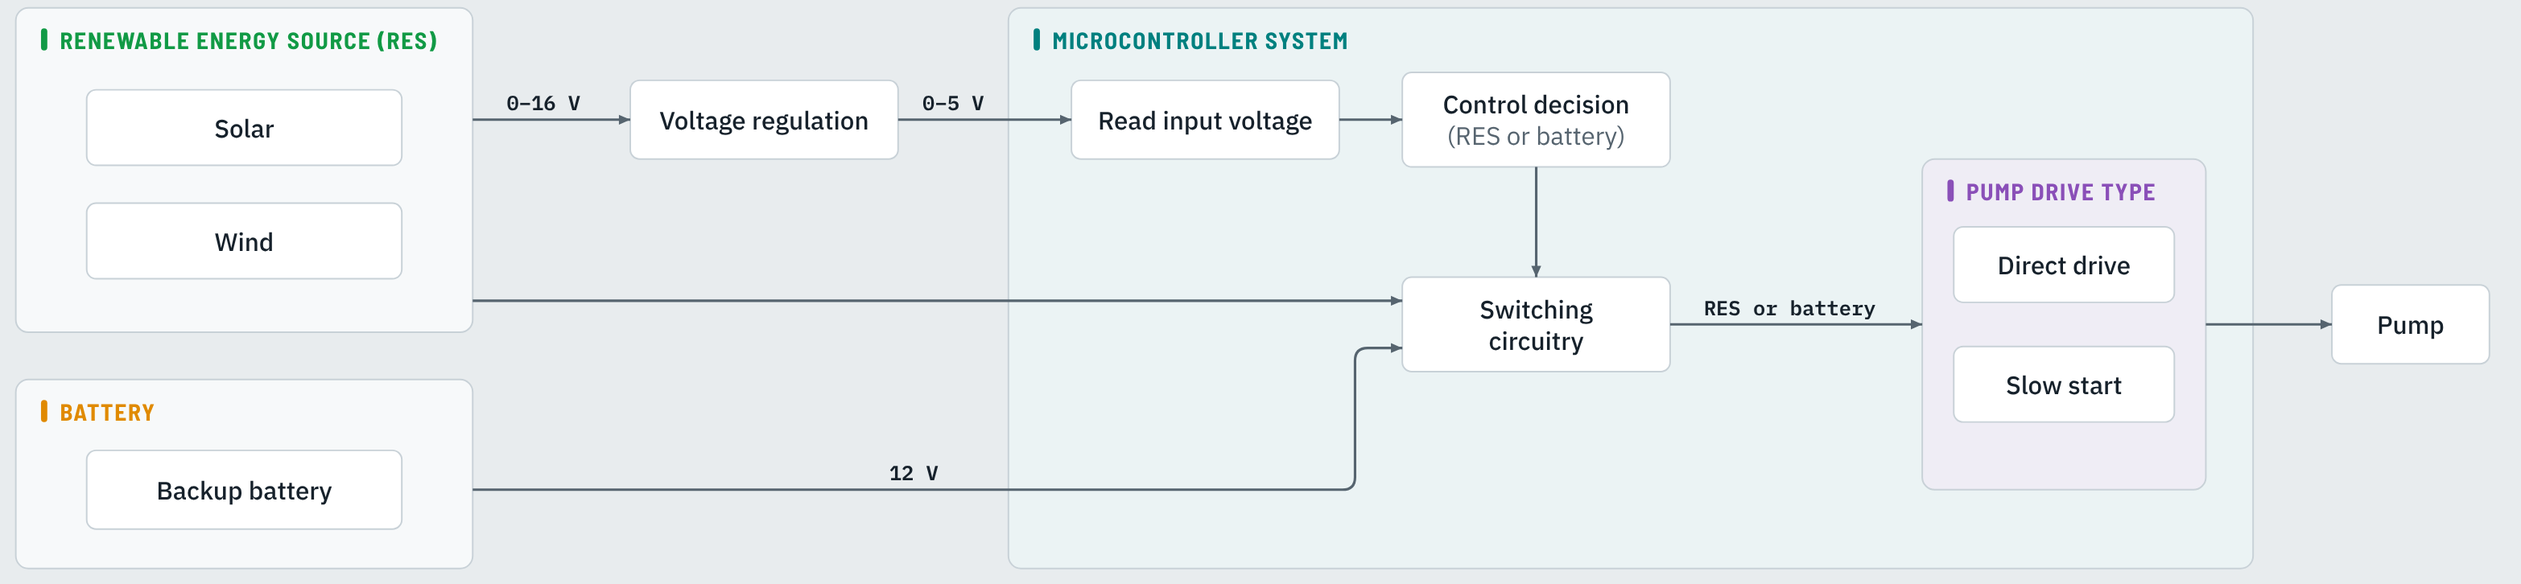
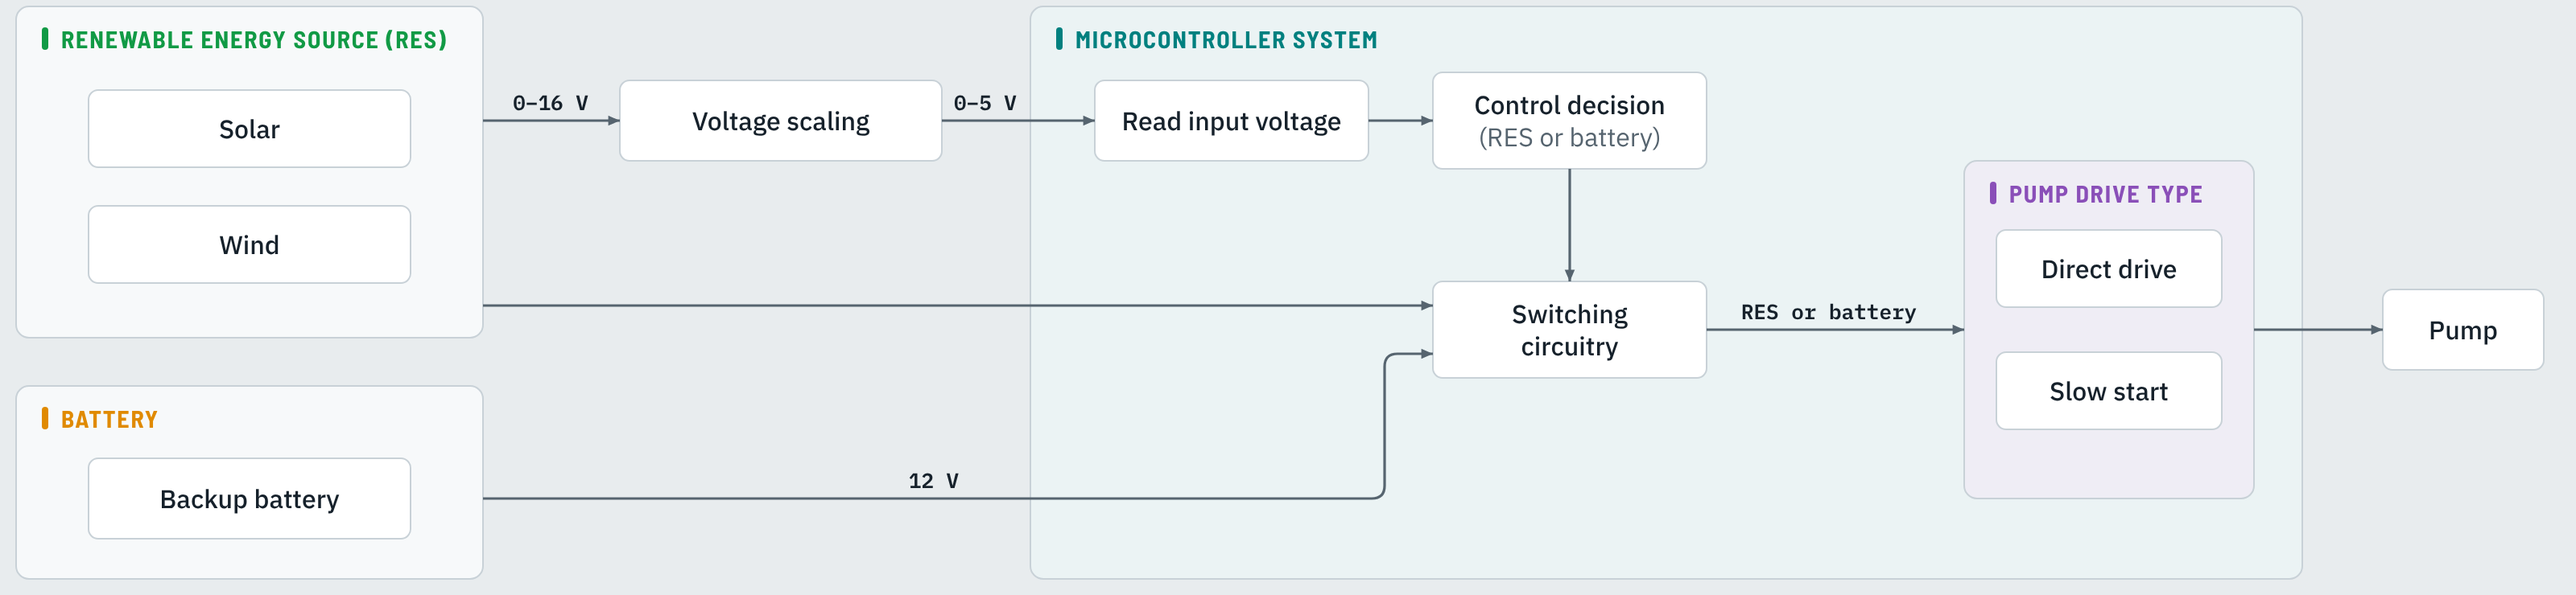
Rename chapter 1 to Voltage measurement; Voltage scaling on the diagram
Chapter 1 opens with the project diagram, the RES and voltage scaling
blocks highlighted. The diagram's block is now Voltage scaling and the
chapter is Voltage measurement, in the sidebar, links and checks.

Claude-Session: https://claude.ai/code/session_01P87DN4FTkCasZDitRqwUir

diff --git a/mec1019/chapters/01-voltage-regulation.md b/mec1019/chapters/01-voltage-regulation.md
@@ -1,11 +1,19 @@
-# Voltage regulation
+# Voltage measurement
 
 The first block after the renewable energy source (RES) in the
-[project overview](../project-overview.qmd) is **voltage regulation**. Its job
+[project overview](../project-overview.qmd) is **voltage scaling**. Its job
 is to bring the RES voltage, which can be anywhere from 0 V to about 16 V, into
 the 0–5 V range that an Arduino analogue input can safely measure. This chapter
 explains why that matters, how a **voltage divider** does it, and how to set
 up an adjustable divider safely.
+
+```{=html}
+<figure class="flow-diagram">
+<figcaption>System overview · Voltage scaling</figcaption>
+<a class="fd-light" href="images/system-voltage-scaling-light.png"><img src="images/system-voltage-scaling-light.png" width="1600" height="370" alt="Project overview diagram with the renewable energy source (solar and wind, 0–16 V) and the voltage scaling block highlighted; the microcontroller, battery, switching circuitry and pump drive are faded."></a>
+<a class="fd-dark" href="images/system-voltage-scaling-dark.png"><img src="images/system-voltage-scaling-dark.png" width="1600" height="370" alt="Project overview diagram with the renewable energy source (solar and wind, 0–16 V) and the voltage scaling block highlighted; the microcontroller, battery, switching circuitry and pump drive are faded."></a>
+</figure>
+```
 
 ## Learning outcomes
 
@@ -43,8 +51,8 @@ Arduino can still tell a weak source from a strong one.
 
 ### Measuring is not the same as powering
 
-"Voltage regulation" can mean two different things, and the project needs to
-keep them apart:
+This block **measures** the RES voltage; it doesn't **regulate** it. The two are
+easily confused, and the project needs to keep them apart:
 
 | | Scaling for **measurement** | Regulating for **power** |
 |---|---|---|
@@ -58,8 +66,8 @@ RES does, so the Arduino would learn nothing. A divider is no use for powering
 anything: as soon as a load draws current from it, its output collapses. The
 Arduino Uno has its own **5 V linear regulator** for its supply (7–12 V on the
 barrel jack or Vin); above about 12 V that regulator wastes
-$P = (V_{in} - 5)\,I$ as heat. The **voltage regulation** block in the project
-is a measurement divider.
+$P = (V_{in} - 5)\,I$ as heat. The **voltage scaling** block in the project
+is a divider, not a regulator.
 
 ### Using the whole range
 
@@ -304,7 +312,7 @@ reading back into the RES voltage, using the fraction you measure here.
 - Arduino analogue inputs must stay within **0–5 V**. A higher source voltage must
   be scaled down, in proportion, before it reaches a pin.
 - A **divider** scales a voltage for measurement; a **regulator** holds a supply
-  steady for power. The project's voltage regulation block is a divider.
+  steady for power. The project's voltage scaling block is a divider.
 - $V_{out} = V_s R_2/(R_1+R_2)$. The ratio sets the voltage; the total resistance
   sets the current and the power wasted.
 - Design from the **maximum** source voltage: $R_1 = (V_{max}/5 - 1)\,R_2$, with

diff --git a/mec1019/chapters/06-project-board.md b/mec1019/chapters/06-project-board.md
@@ -13,7 +13,7 @@ By the end of this chapter you should be able to:
 
 - Read the RenewableSwitchOver schematic and find each block of the project
   diagram on it
-- Set the board's voltage regulation trimmer safely and measure its divider
+- Set the board's voltage measurement trimmer safely and measure its divider
   fraction
 - Explain how the board's high-side P-MOSFET switches, NPN level shifters and
   diodes select the supply, and compare them with relays
@@ -47,7 +47,7 @@ A few things help when reading it:
 |---|---|---|---|
 | Renewable energy source (RES) | [Project overview](../project-overview.qmd) | RES wired to the breadboard rails | Screw terminal **J3** (Renew): +ve is the net **Vdrive** |
 | Battery | [Project overview](../project-overview.qmd) | Battery wired to the breadboard rails | Screw terminal **J2** (Batt): +ve is **+12V** |
-| Voltage regulation | [1 · Voltage regulation](01-voltage-regulation.md) | Fixed divider, e.g. 22 kΩ + 10 kΩ | **R7** (10 kΩ) and the **SwitchOverADJ** trimmer; test point **TP1** |
+| Voltage scaling | [1 · Voltage measurement](01-voltage-regulation.md) | Fixed divider, e.g. 22 kΩ + 10 kΩ | **R7** (10 kΩ) and the **SwitchOverADJ** trimmer; test point **TP1** |
 | Microcontroller system | [2 · Getting started with the Arduino](02-arduino.md) | Arduino Uno | Arduino Uno **A1**, plugged into the board |
 | Read input voltage, control decision | [3 · Read input voltage](03-read-input-voltage.md) | Divider mid-point to A0 | Trimmer wiper (net **AnalogIn**) to **A0** |
 | Switching circuitry | [4 · Switching circuitry](04-switching-circuitry.md) | Dual relay module, active-LOW | P-MOSFETs **Q3**, **Q4** driven by NPN transistors **Q1**, **Q2**, active-HIGH; diodes **D1**, **D2**; LEDs **D3**, **D4** |
@@ -73,10 +73,10 @@ enable pin.
 
 ---
 
-## 3. Voltage regulation on the board
+## 3. Voltage measurement on the board
 
 The board's divider is the fixed-resistor-plus-trimmer arrangement from
-[Voltage regulation](01-voltage-regulation.md#setting-an-adjustable-divider-safely):
+[Voltage measurement](01-voltage-regulation.md#setting-an-adjustable-divider-safely):
 
 | Part | Connection |
 |---|---|
@@ -412,7 +412,7 @@ bypassed, and only the supply switching matters.
 
 - The board is the same system as Chapters 1–5: every block of the project diagram
   has a matching group of parts on the schematic.
-- **Voltage regulation:** R7 and the SwitchOverADJ trimmer feed A0. Set it at TP1 so
+- **Voltage measurement:** R7 and the SwitchOverADJ trimmer feed A0. Set it at TP1 so
   the RES maximum gives just under 5 V, and measure the fraction there.
 - **Switching:** each supply has a **high-side P-MOSFET** (Q3, Q4) driven through an
   **NPN level shifter** (Q1, Q2): D12 HIGH connects the battery, D13 HIGH connects

diff --git a/mec1019/chapters/03-read-input-voltage.md b/mec1019/chapters/03-read-input-voltage.md
@@ -48,7 +48,7 @@ the whole range of 1024 steps is used.
 
 A **potentiometer** across 5 V gives a voltage from 0 to 5 V that you can change
 by hand: a safe stand-in for the RES while you write and test the code. (See
-[Voltage regulation](01-voltage-regulation.md#potentiometers-an-adjustable-divider)
+[Voltage measurement](01-voltage-regulation.md#potentiometers-an-adjustable-divider)
 for how it works.)
 
 ![Turning a breadboard potentiometer](images/p6-04.png)
@@ -385,7 +385,7 @@ voltage is always measured *relative to* something: without a shared ground,
 ### Measure the fraction
 
 Resistor tolerances, or an adjustable divider
-([Voltage regulation](01-voltage-regulation.md#setting-an-adjustable-divider-safely)),
+([Voltage measurement](01-voltage-regulation.md#setting-an-adjustable-divider-safely)),
 mean the real fraction can differ from the calculated one. Measure it instead:
 
 1. Apply a known voltage across the divider, e.g. 12.0 V from a bench supply,

diff --git a/mec1019/chapters/02-arduino.md b/mec1019/chapters/02-arduino.md
@@ -62,7 +62,7 @@ the **Microchip ATmega328P**:
 | Feature | Function |
 |---|---|
 | USB connector (with a USB–serial converter) | Powers the board, uploads firmware via the bootloader, carries `Serial` data |
-| External power jack / Vin | 7–12 V input to the on-board **5 V linear regulator** (see [Voltage regulation](01-voltage-regulation.md)) |
+| External power jack / Vin | 7–12 V input to the on-board **5 V linear regulator** (see [Voltage measurement](01-voltage-regulation.md)) |
 | 3.3 V regulator | Low-current (≈ 50 mA) 3.3 V output for 3.3 V sensors |
 | 16 MHz crystal | Clock source; sets timing accuracy for `millis()`, serial baud rates and PWM |
 | Reset button / pin | Restarts the program from `setup()` |

diff --git a/README.md b/README.md
@@ -25,7 +25,7 @@ drives and Manufacturing Automation group their chapters into parts.
 
 Introduction to microcontrollers is structured around its project instead: the
 *Project Overview* page (`mec1019/project-overview.qmd`) shows the system
-diagram, and there is one chapter per block of it (voltage regulation, the
+diagram, and there is one chapter per block of it (voltage measurement, the
 Arduino, read input voltage, switching circuitry, pump drive type), built on a
 breadboard with a relay module and an L298N module. A sixth, advanced chapter
 covers the RenewableSwitchOver board and its schematic; the first five don't
